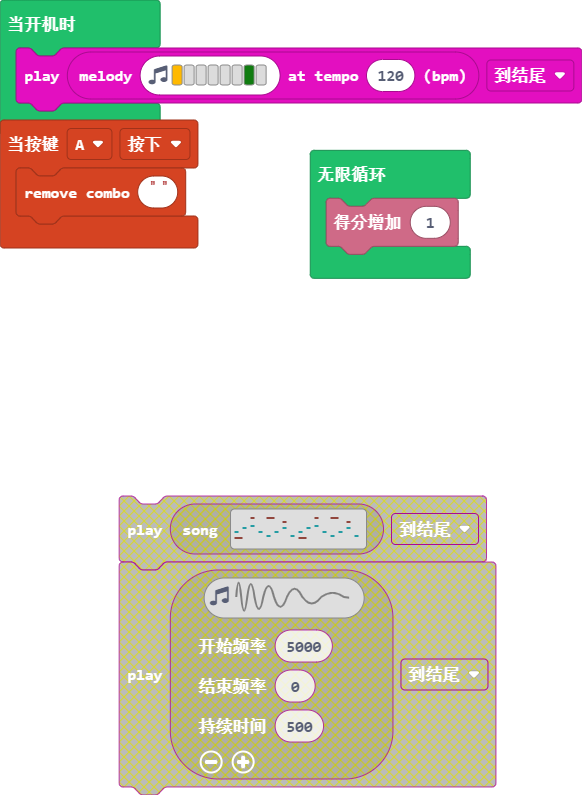
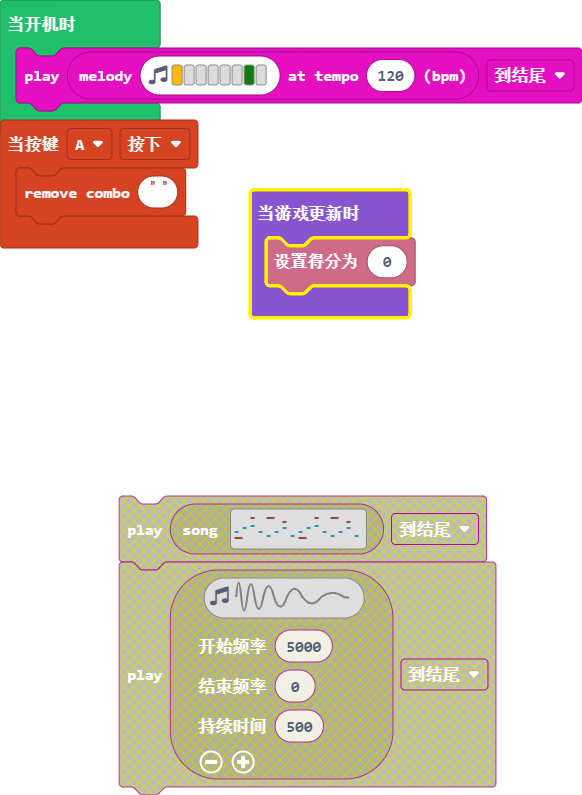
更新 main.blocks, main.ts

Changed region(s): [[0.4021, 0.1811, 0.8351, 0.4226]]

diff --git a/main.ts b/main.ts
@@ -2,6 +2,6 @@ controller.A.onEvent(ControllerButtonEvent.Pressed, function () {
     controller.combos.detachCombo("")
 })
 music.play(music.stringPlayable("A - - - - - G - ", 120), music.PlaybackMode.UntilDone)
-forever(function () {
-    info.changeScoreBy(1)
+game.onUpdate(function () {
+    info.setScore(0)
 })
